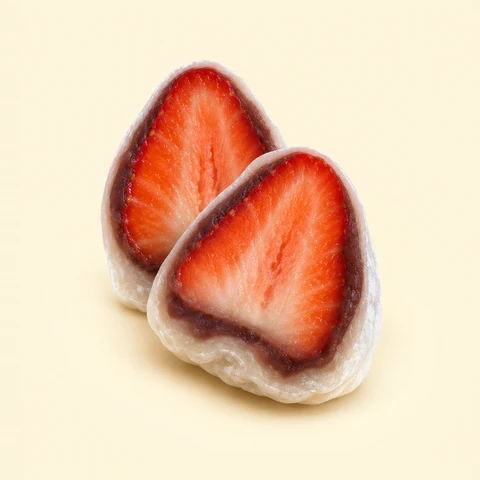
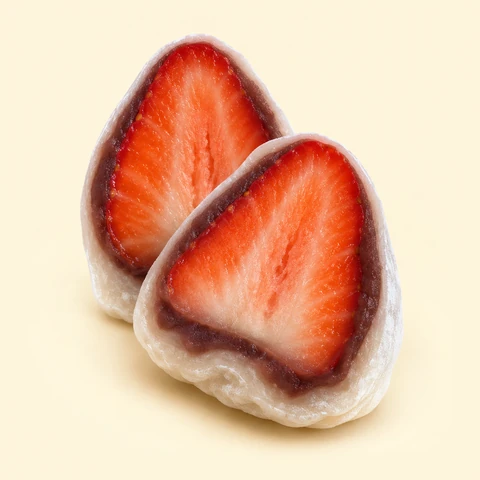
딸기모찌 사진을 약 15% 크게(다른 디저트와 크기 맞춤), 사진 주소 버전 ?v=3

diff --git a/index.html b/index.html
@@ -2445,7 +2445,7 @@ const GOALS = [
 const ro = w => { const c = w.charCodeAt(w.length - 1); if (c < 0xAC00 || c > 0xD7A3) return '로'; const t = (c - 0xAC00) % 28; return t && t !== 8 ? '으로' : '로'; };
 const storeName = () => ((loadProfile() || {}).name || '').trim();
 // 디저트 사진 (AI로 만든 이미지, 크림 배경 480px webp · img/menu/)
-const IMG = {'망고빙수': 'img/menu/mango-bingsu.webp?v=2', '크리스마스 케이크': 'img/menu/christmas-cake.webp?v=2', '딸기 케이크': 'img/menu/strawberry-cake.webp?v=2', '발렌타인 초콜릿': 'img/menu/valentine-chocolate.webp?v=2', '빙수': 'img/menu/bingsu.webp?v=2', '고구마 디저트': 'img/menu/sweet-potato-latte.webp?v=2', '밤 디저트': 'img/menu/mont-blanc.webp?v=2', '카네이션 케이크': 'img/menu/carnation-rice-cake.webp?v=2', '과일모찌': 'img/menu/strawberry-mochi-cut.webp?v=2', '딸기모찌': 'img/menu/strawberry-mochi-cut.webp?v=2', '찹쌀모찌': 'img/menu/red-bean-mochi.webp', '모찌떡': 'img/menu/cream-mochi.webp', '찹쌀떡': 'img/menu/red-bean-rice-cakes.webp', '약과': 'img/menu/yakgwa.webp', '두바이 초콜릿': 'img/menu/pistachio-kataifi-chocolate.webp', '소금빵': 'img/menu/salt-bread.webp', '베이글': 'img/menu/cream-cheese-bagels.webp', '크로플': 'img/menu/croffle-no-cream.webp', '탕후루': 'img/menu/tanghulu.webp', '마카롱': 'img/menu/pastel-macarons.webp', '뚱카롱': 'img/menu/fat-macarons.webp', '흑당': 'img/menu/brown-sugar-bubble-tea.webp', '달고나': 'img/menu/dalgona-latte.webp', '요거트 아이스크림': 'img/menu/yogurt-ice-cream.webp', '피스타치오': 'img/menu/pistachio-latte.webp', '말차': 'img/menu/matcha-latte.webp', '흑임자': 'img/menu/black-sesame-latte-2.webp', '쑥': 'img/menu/mugwort-latte.webp', '붕어빵': 'img/menu/bungeoppang.webp', '땅콩빵': 'img/menu/peanut-shaped-buns.webp'};
+const IMG = {'망고빙수': 'img/menu/mango-bingsu.webp?v=2', '크리스마스 케이크': 'img/menu/christmas-cake.webp?v=2', '딸기 케이크': 'img/menu/strawberry-cake.webp?v=2', '발렌타인 초콜릿': 'img/menu/valentine-chocolate.webp?v=2', '빙수': 'img/menu/bingsu.webp?v=2', '고구마 디저트': 'img/menu/sweet-potato-latte.webp?v=2', '밤 디저트': 'img/menu/mont-blanc.webp?v=2', '카네이션 케이크': 'img/menu/carnation-rice-cake.webp?v=2', '과일모찌': 'img/menu/strawberry-mochi-cut.webp?v=3', '딸기모찌': 'img/menu/strawberry-mochi-cut.webp?v=3', '찹쌀모찌': 'img/menu/red-bean-mochi.webp', '모찌떡': 'img/menu/cream-mochi.webp', '찹쌀떡': 'img/menu/red-bean-rice-cakes.webp', '약과': 'img/menu/yakgwa.webp', '두바이 초콜릿': 'img/menu/pistachio-kataifi-chocolate.webp', '소금빵': 'img/menu/salt-bread.webp', '베이글': 'img/menu/cream-cheese-bagels.webp', '크로플': 'img/menu/croffle-no-cream.webp', '탕후루': 'img/menu/tanghulu.webp', '마카롱': 'img/menu/pastel-macarons.webp', '뚱카롱': 'img/menu/fat-macarons.webp', '흑당': 'img/menu/brown-sugar-bubble-tea.webp', '달고나': 'img/menu/dalgona-latte.webp', '요거트 아이스크림': 'img/menu/yogurt-ice-cream.webp', '피스타치오': 'img/menu/pistachio-latte.webp', '말차': 'img/menu/matcha-latte.webp', '흑임자': 'img/menu/black-sesame-latte-2.webp', '쑥': 'img/menu/mugwort-latte.webp', '붕어빵': 'img/menu/bungeoppang.webp', '땅콩빵': 'img/menu/peanut-shaped-buns.webp'};
 const photo = (k, cls = '') => IMG[k] ? `<img src="${IMG[k]}" alt="${k}" loading="lazy"${cls ? ` class="${cls}"` : ''}>` : '';
 const card = (cls, key, emo, bg, title, sub, on, badge) => `<button type="button" class="${cls}${on ? ' on' : ''}" data-k="${key}" aria-pressed="${on}">
   ${IMG[key] ? `<span class="art ph">${photo(key)}</span>` : `<span class="art" style="background:${bg}">${emo}</span>`}<span class="pk-t">${title}${badge ? `<em>${badge}</em>` : ''}</span><span class="pk-s">${sub}</span><span class="pk-c">${on ? '✓' : '↗'}</span></button>`;

diff --git a/src/app.js b/src/app.js
@@ -1149,7 +1149,7 @@ const GOALS = [
 const ro = w => { const c = w.charCodeAt(w.length - 1); if (c < 0xAC00 || c > 0xD7A3) return '로'; const t = (c - 0xAC00) % 28; return t && t !== 8 ? '으로' : '로'; };
 const storeName = () => ((loadProfile() || {}).name || '').trim();
 // 디저트 사진 (AI로 만든 이미지, 크림 배경 480px webp · img/menu/)
-const IMG = {'망고빙수': 'img/menu/mango-bingsu.webp?v=2', '크리스마스 케이크': 'img/menu/christmas-cake.webp?v=2', '딸기 케이크': 'img/menu/strawberry-cake.webp?v=2', '발렌타인 초콜릿': 'img/menu/valentine-chocolate.webp?v=2', '빙수': 'img/menu/bingsu.webp?v=2', '고구마 디저트': 'img/menu/sweet-potato-latte.webp?v=2', '밤 디저트': 'img/menu/mont-blanc.webp?v=2', '카네이션 케이크': 'img/menu/carnation-rice-cake.webp?v=2', '과일모찌': 'img/menu/strawberry-mochi-cut.webp?v=2', '딸기모찌': 'img/menu/strawberry-mochi-cut.webp?v=2', '찹쌀모찌': 'img/menu/red-bean-mochi.webp', '모찌떡': 'img/menu/cream-mochi.webp', '찹쌀떡': 'img/menu/red-bean-rice-cakes.webp', '약과': 'img/menu/yakgwa.webp', '두바이 초콜릿': 'img/menu/pistachio-kataifi-chocolate.webp', '소금빵': 'img/menu/salt-bread.webp', '베이글': 'img/menu/cream-cheese-bagels.webp', '크로플': 'img/menu/croffle-no-cream.webp', '탕후루': 'img/menu/tanghulu.webp', '마카롱': 'img/menu/pastel-macarons.webp', '뚱카롱': 'img/menu/fat-macarons.webp', '흑당': 'img/menu/brown-sugar-bubble-tea.webp', '달고나': 'img/menu/dalgona-latte.webp', '요거트 아이스크림': 'img/menu/yogurt-ice-cream.webp', '피스타치오': 'img/menu/pistachio-latte.webp', '말차': 'img/menu/matcha-latte.webp', '흑임자': 'img/menu/black-sesame-latte-2.webp', '쑥': 'img/menu/mugwort-latte.webp', '붕어빵': 'img/menu/bungeoppang.webp', '땅콩빵': 'img/menu/peanut-shaped-buns.webp'};
+const IMG = {'망고빙수': 'img/menu/mango-bingsu.webp?v=2', '크리스마스 케이크': 'img/menu/christmas-cake.webp?v=2', '딸기 케이크': 'img/menu/strawberry-cake.webp?v=2', '발렌타인 초콜릿': 'img/menu/valentine-chocolate.webp?v=2', '빙수': 'img/menu/bingsu.webp?v=2', '고구마 디저트': 'img/menu/sweet-potato-latte.webp?v=2', '밤 디저트': 'img/menu/mont-blanc.webp?v=2', '카네이션 케이크': 'img/menu/carnation-rice-cake.webp?v=2', '과일모찌': 'img/menu/strawberry-mochi-cut.webp?v=3', '딸기모찌': 'img/menu/strawberry-mochi-cut.webp?v=3', '찹쌀모찌': 'img/menu/red-bean-mochi.webp', '모찌떡': 'img/menu/cream-mochi.webp', '찹쌀떡': 'img/menu/red-bean-rice-cakes.webp', '약과': 'img/menu/yakgwa.webp', '두바이 초콜릿': 'img/menu/pistachio-kataifi-chocolate.webp', '소금빵': 'img/menu/salt-bread.webp', '베이글': 'img/menu/cream-cheese-bagels.webp', '크로플': 'img/menu/croffle-no-cream.webp', '탕후루': 'img/menu/tanghulu.webp', '마카롱': 'img/menu/pastel-macarons.webp', '뚱카롱': 'img/menu/fat-macarons.webp', '흑당': 'img/menu/brown-sugar-bubble-tea.webp', '달고나': 'img/menu/dalgona-latte.webp', '요거트 아이스크림': 'img/menu/yogurt-ice-cream.webp', '피스타치오': 'img/menu/pistachio-latte.webp', '말차': 'img/menu/matcha-latte.webp', '흑임자': 'img/menu/black-sesame-latte-2.webp', '쑥': 'img/menu/mugwort-latte.webp', '붕어빵': 'img/menu/bungeoppang.webp', '땅콩빵': 'img/menu/peanut-shaped-buns.webp'};
 const photo = (k, cls = '') => IMG[k] ? `<img src="${IMG[k]}" alt="${k}" loading="lazy"${cls ? ` class="${cls}"` : ''}>` : '';
 const card = (cls, key, emo, bg, title, sub, on, badge) => `<button type="button" class="${cls}${on ? ' on' : ''}" data-k="${key}" aria-pressed="${on}">
   ${IMG[key] ? `<span class="art ph">${photo(key)}</span>` : `<span class="art" style="background:${bg}">${emo}</span>`}<span class="pk-t">${title}${badge ? `<em>${badge}</em>` : ''}</span><span class="pk-s">${sub}</span><span class="pk-c">${on ? '✓' : '↗'}</span></button>`;
